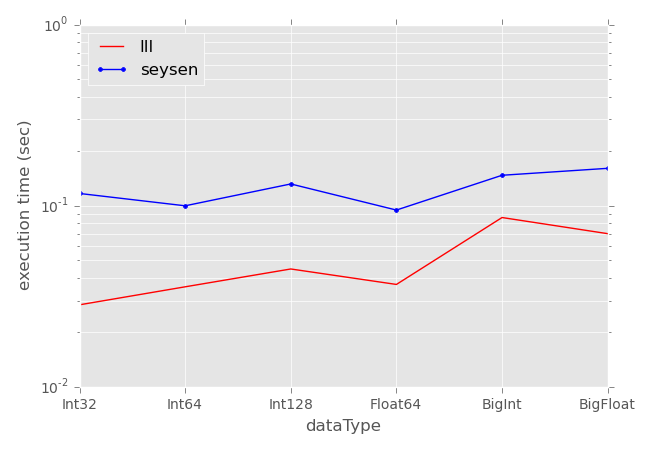
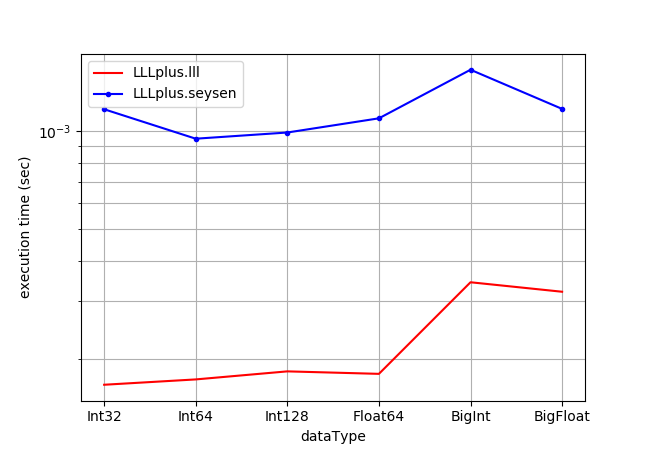
Update for 0.6.3
* Updated for 0.6 notation for multiplying a row of a matrix by a
  column of another matrix, broadcast notation, Dict creation.
* Switched to use of BenchmarkTools to estimate time. Lowered the
  number of runs we use; the whole perf plot thing could be improved
  in the future.
* Dropped the 'lllnative' function since 'lll' no longer is especially
  different than lllnative.
* Removed funky use of Travis to generate perf plots.

This commit runs under 0.7 with deprecation warnings.

diff --git a/README.md b/README.md
@@ -3,11 +3,13 @@
 [![Build Status](https://travis-ci.org/christianpeel/LLLplus.jl.svg?branch=master)](https://travis-ci.org/christianpeel/LLLplus.jl)
 [![LLLplus](http://pkg.julialang.org/badges/LLLplus_release.svg)](http://pkg.julialang.org/?pkg=LLLplus&ver=release)
 
-Lattice reduction and related lattice tools are increasingly important
-in wireless communication, cryptography, and signal processing.  This
-package provides the following tools: Lenstra-Lenstra-Lovacsz (LLL)
-lattice reduction, Seysen lattice reduction, a sphere decoder, and
-VBLAST matrix decomposition.
+Lattice reduction and related lattice tools are used in wireless
+communication, cryptography, and mathematics.  This package provides
+the following tools: Lenstra-Lenstra-Lovacsz (LLL) lattice reduction,
+Seysen lattice reduction, a sphere decoder, and VBLAST matrix
+decomposition. This package was created as a way to explore the Julia
+language, and is not intended to be a cannonical tool for lattice
+reduction.
 
 [LLL](https://en.wikipedia.org/wiki/Lenstra%E2%80%93Lenstra%E2%80%93Lov%C3%A1sz_lattice_basis_reduction_algorithm) [1]
 lattice reduction is a powerful tool in computer science that is used
@@ -79,7 +81,7 @@ We first show how the time varies with matrix size (1,2,4,...64); the
 vertical axis shows execution time on a logarithmic scale; the x-axis
 is also logarithmic. The generally linear nature of the LLL curve supports
 the polynomial-time nature of the algorithm. Each data point
-is the average of execution time of 200 runs of a lattice-reduction
+is the average of execution time of 10 runs of a lattice-reduction
 technique, where the matrices used were generated using 'randn' to
 emulate unit-variance Gaussian-distributed values.
 ![Time vs matrix size](benchmark/perfVsNfloat32.png)
@@ -88,23 +90,14 @@ Though the focus of the package is on floating-point,
 all the modules can handle a variety of data types. In the next figure
 we show execution time for several datatypes (Int32, Int64,
 Int128, Float64, BitInt, and BigFloat) which are used to
-generate 200 16x16 matrices, over which execution time for the lattic
+generate 10 4x4 matrices, over which execution time for the lattice
 reduction techniques is averaged.  The vertical axis is a logarithmic
 representation of execution time as in the previous
 figure. ![Time vs data type](benchmark/perfVsDataTypeN16.png)
 
 ### Future
 
-The performance tests above were designed to accomodate new
-lattice-reduction techniques, which we invite you to add. These could
-be simple updates of one of the current techniques to include BLAS
-functions, or something like BKZ [4] reduction, which is used to break
-crypto systems. Once a new technique is available, it can be added
-directly to this package, or included in the tests via something
-like `Pkg.add("NewLR"); using NewLR` in `benchmarks/perftest.jl`,
-followed by appropriate changes to `lrtest.jl`.
-
-Possible future improvements include:
+Possible improvements include:
 * Add Block-Korkin-Zolotarev lattice redution, with improvements
     as in [4], and Brun lattice reduction 
 * The [SVP](http://www.latticechallenge.org/svp-challenge/) Challenge
@@ -137,8 +130,4 @@ ISSSE: 295–300.
 [4] Y. Chen, P. Q. Nguyen (2011) ["BKZ 2.0: Better Lattice Security Estimates"]
 (http://www.iacr.org/archive/asiacrypt2011/70730001/70730001.pdf).
 Proc. ASIACRYPT 2011.
-
-This module was written by
-[Chris Peel](https://github.com/ChristianPeel).
-
 
